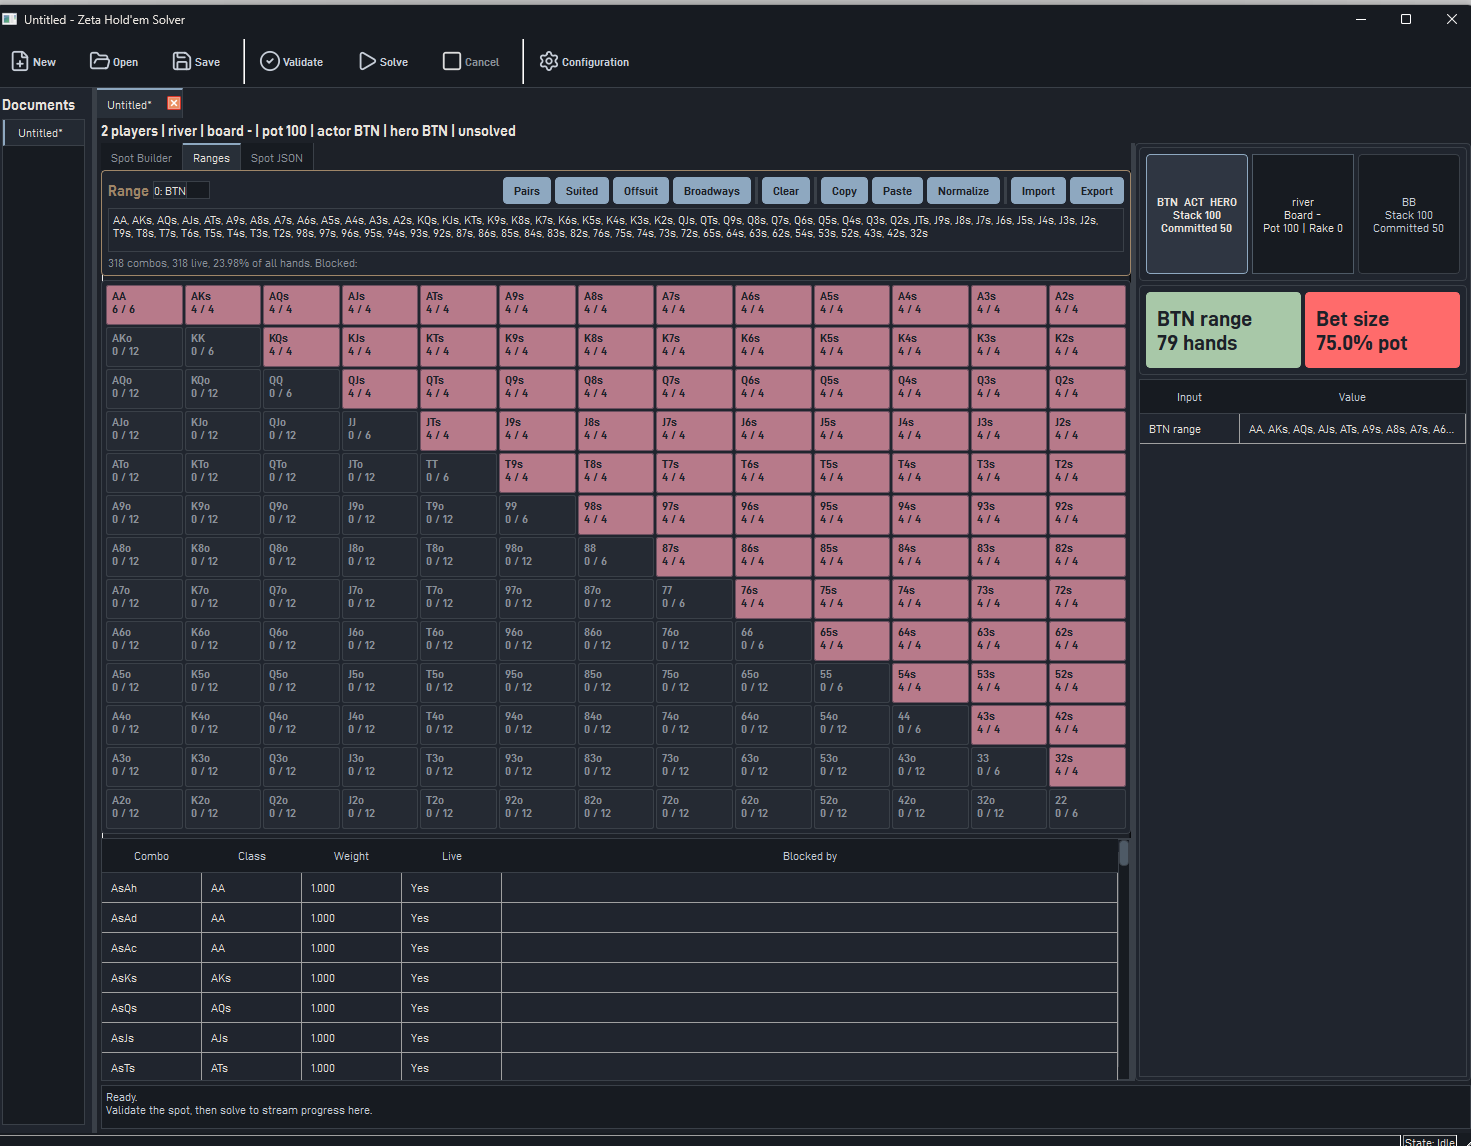
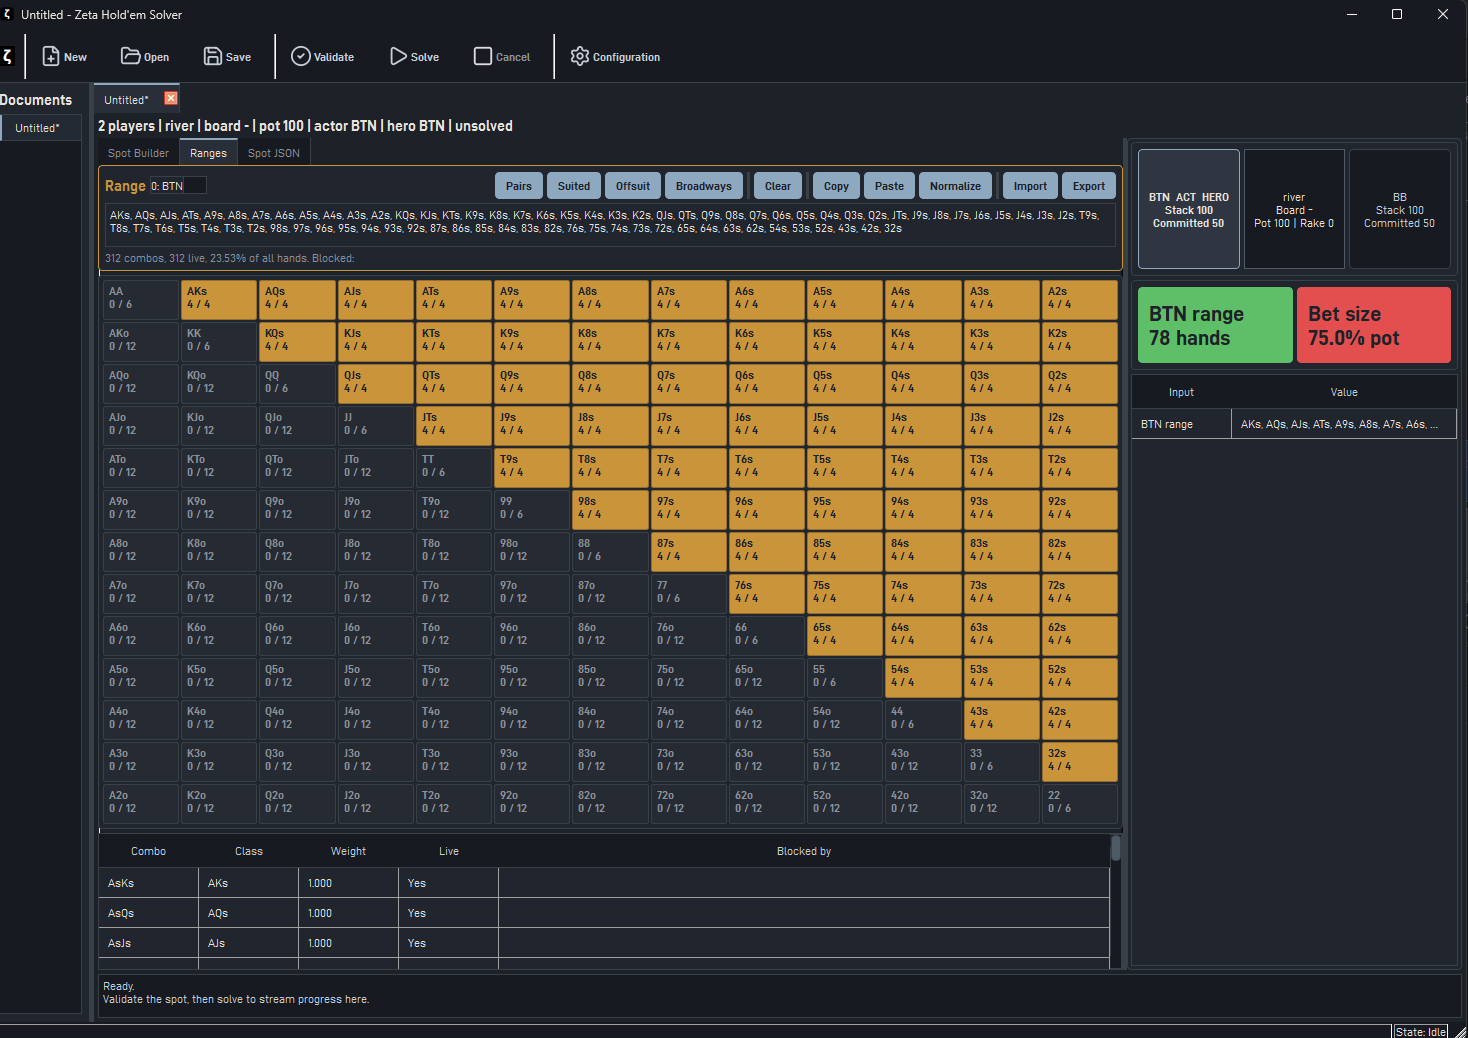
update themes.

diff --git a/zeta/ui/holdem/src/theme/theme_registry.cpp b/zeta/ui/holdem/src/theme/theme_registry.cpp
@@ -23,17 +23,17 @@ namespace zeta::holdem::ui::theme {
                         .text_primary = "#e7e2dc",
                         .text_secondary = "#c7ced8",
                         .text_muted = "#8a9099",
-                        .accent_primary = "#fb8aa7",
+                        .accent_primary = "#C9943A",
                         .accent_secondary = "#8ea8c0",
                         .action_primary = "#8ea8c0",
                         .action_primary_hover = "#a5bdd2",
-                        .action_positive = "#6fa36f",
-                        .action_negative = "#d94f4f",
+                        .action_positive = "#5FBF68",
+                        .action_negative = "#E34F4F",
                         .ev_positive = "#a8c8a8",
                         .ev_negative = "#ff6b6b",
                         .ev_neutral = "#9aa1ab",
-                        .range_heat = {"#252a33", "#3a3239", "#6d5060", "#b77a8a"},
-                        .warning = "#9f8668",
+                        .range_heat = {"#252a33", "#5A4426", "#946F31", "#C9943A"},
+                        .warning = "#C9943A",
                         .error = "#ff6b6b",
                         .success = "#a8c8a8",
                         .selection = "rgba(142, 168, 192, 26)",
@@ -57,18 +57,18 @@ namespace zeta::holdem::ui::theme {
                         .text_primary = "#000000",
                         .text_secondary = "#3f3f3f",
                         .text_muted = "#707070",
-                        .accent_primary = "#b76b84",
+                        .accent_primary = "#B9822E",
                         .accent_secondary = "#95a8b8",
                         .action_primary = "#95a8b8",
                         .action_primary_hover = "#b0c4d0",
-                        .action_positive = "#3f7d3f",
-                        .action_negative = "#c0392b",
+                        .action_positive = "#4F9B4E",
+                        .action_negative = "#C83F3F",
                         .ev_positive = "#3f7d3f",
                         .ev_negative = "#c0392b",
                         .ev_neutral = "#707070",
-                        .range_heat = {"#f0efec", "#eadde1", "#c89aa7", "#a66f7f"},
-                        .warning = "#9f8668",
-                        .error = "#c0392b",
+                        .range_heat = {"#f0efec", "#F2DEB8", "#D5A658", "#B9822E"},
+                        .warning = "#B9822E",
+                        .error = "#C83F3F",
                         .success = "#3f7d3f",
                         .selection = "rgba(149, 168, 184, 34)",
                         .document_selection = "rgba(149, 168, 184, 34)",
@@ -91,16 +91,16 @@ namespace zeta::holdem::ui::theme {
                         .text_primary = "#ffffff",
                         .text_secondary = "#e7e2dc",
                         .text_muted = "#b8bec6",
-                        .accent_primary = "#ff9ab3",
+                        .accent_primary = "#E6B04A",
                         .accent_secondary = "#b5c8d8",
                         .action_primary = "#b5c8d8",
                         .action_primary_hover = "#d0dde7",
-                        .action_positive = "#9fd09f",
-                        .action_negative = "#ff7373",
+                        .action_positive = "#70D36F",
+                        .action_negative = "#FF6262",
                         .ev_positive = "#9fd09f",
                         .ev_negative = "#ff7373",
                         .ev_neutral = "#e7e2dc",
-                        .range_heat = {"#1b2026", "#343b44", "#855c6a", "#d28aa0"},
+                        .range_heat = {"#1b2026", "#5C4925", "#A47A2D", "#E6B04A"},
                         .warning = "#e6c15a",
                         .error = "#ff7373",
                         .success = "#9fd09f",
